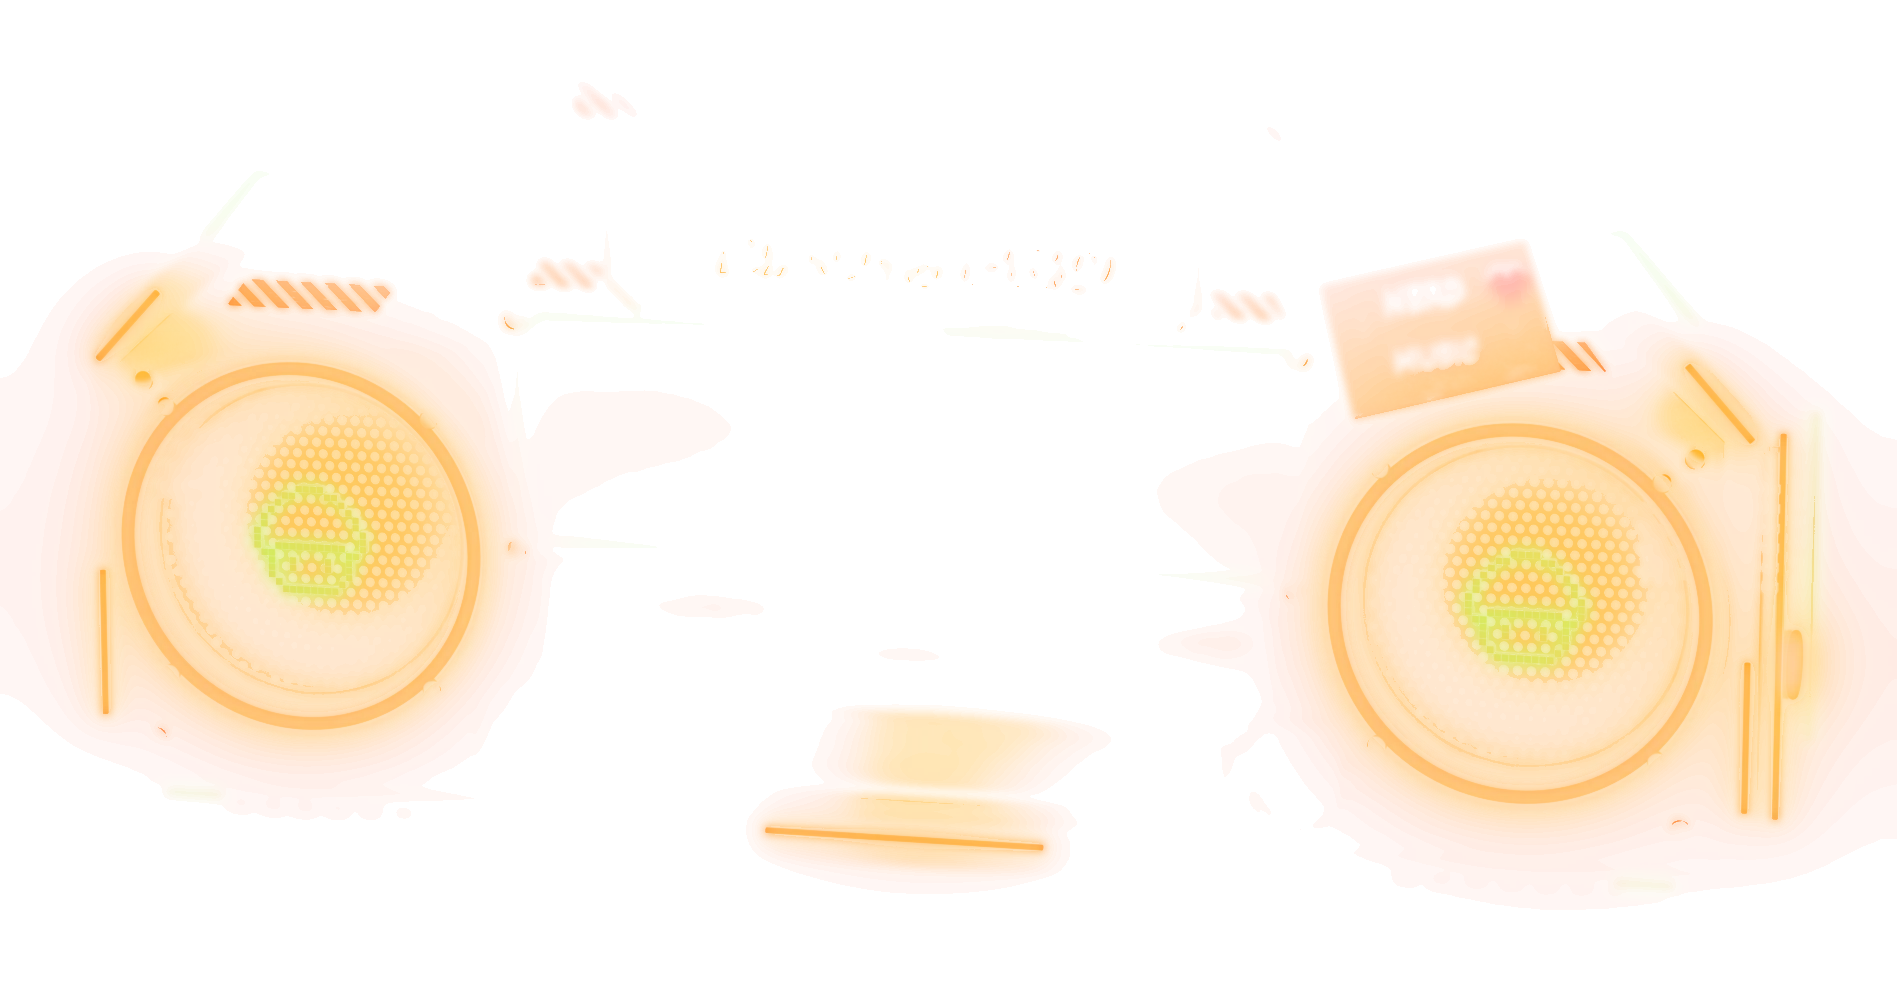
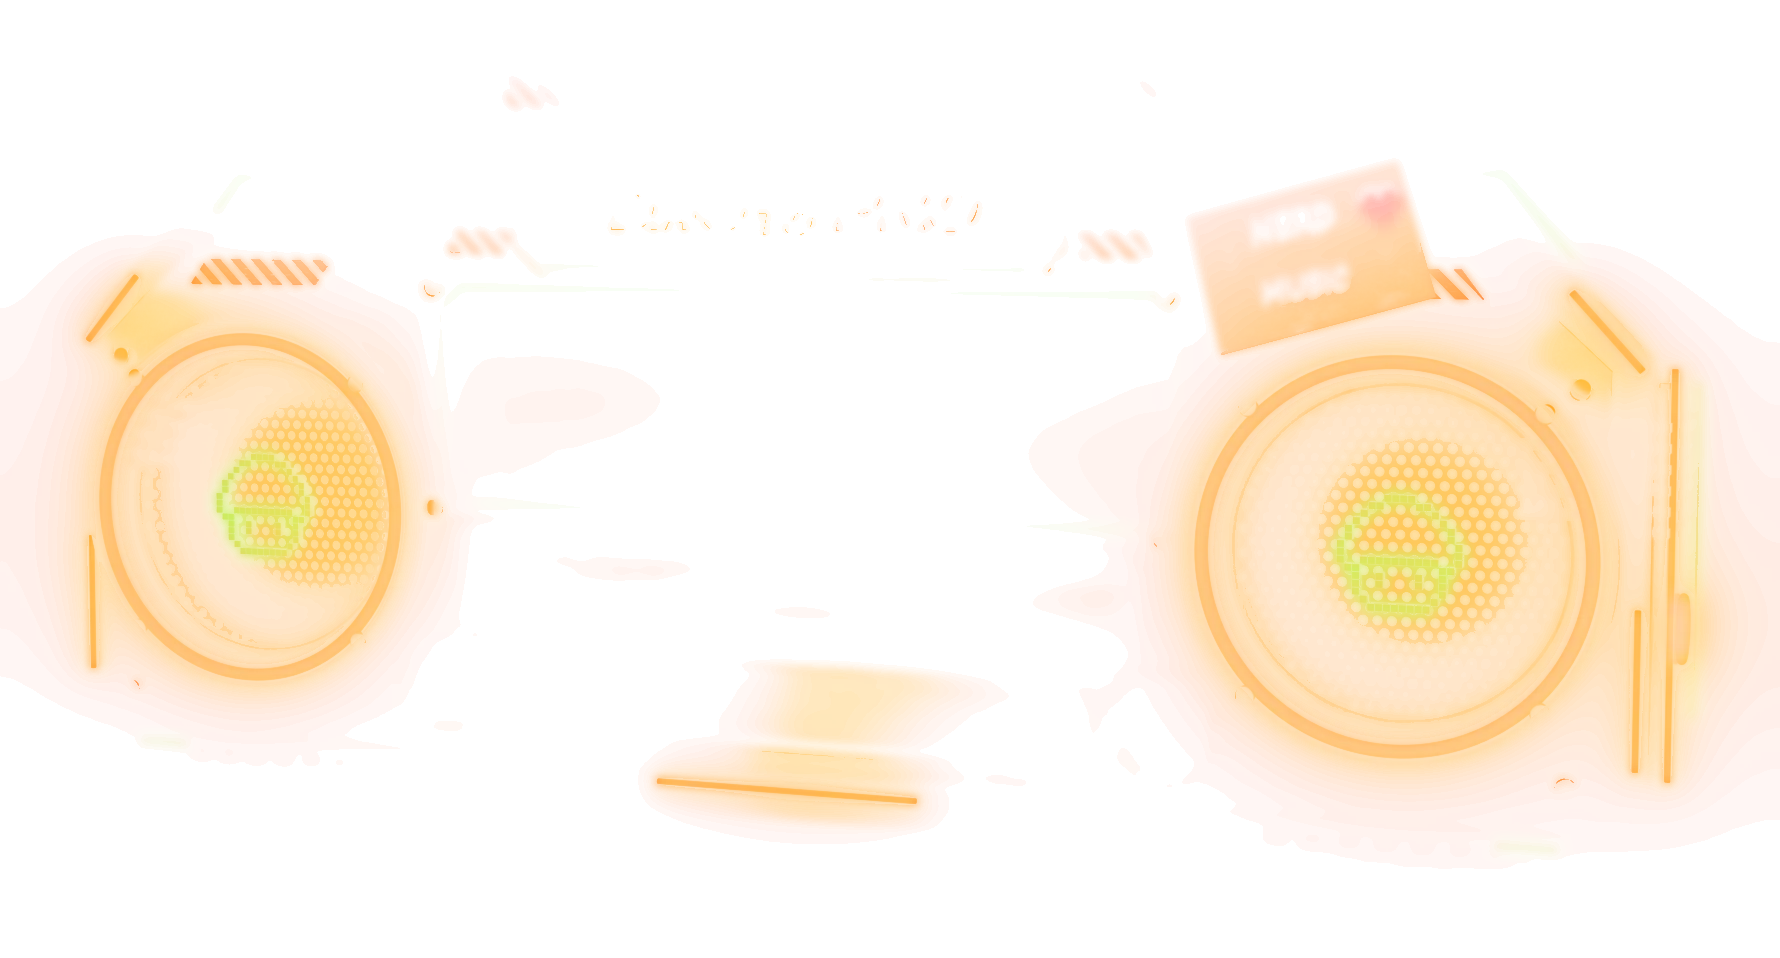
NERD RADIO: um die Hochachse gedreht, rechte Ecke zeigt zur Kamera

diff --git a/dau-to-pro/nerd-radio/layout.css b/dau-to-pro/nerd-radio/layout.css
@@ -1,22 +1,22 @@
 /* Generiert von tools/nerd-radio/build_boombox.py – nicht von Hand ändern. */
-.nr-device{aspect-ratio:1898/987;--nr-face:"0.02873 0.04963 0.95363 0.12216 0.94381 0.93996 0.03752 0.82833"}
-.nr-speaker--l{left:7.046%;top:35.531%;width:18.752%;height:38.219%}
+.nr-device{aspect-ratio:1780/958;--nr-face:"0.03256 0.06337 0.95701 0.02838 0.94683 0.93833 0.03912 0.79935"}
+.nr-speaker--l{left:6.603%;top:34.739%;width:16.807%;height:36.551%}
 .nr-speaker--l .nr-speaker__cone{background-image:url(cone-0.webp)}
-.nr-speaker--r{left:70.433%;top:41.651%;width:20.088%;height:39.564%}
+.nr-speaker--r{left:67.730%;top:37.054%;width:22.345%;height:42.352%}
 .nr-speaker--r .nr-speaker__cone{background-image:url(cone-1.webp)}
-.nr-key[data-radio-prev]{left:27.892%;top:56.908%;width:8.617%;height:13.175%;background-image:url(key-prev-up.webp)}
+.nr-key[data-radio-prev]{left:24.804%;top:54.144%;width:8.386%;height:13.182%;background-image:url(key-prev-up.webp)}
 .nr-key[data-radio-prev]:active,.nr-key[data-radio-prev].is-down{background-image:url(key-prev-down.webp)}
-.nr-key[data-radio-stop]{left:35.098%;top:57.686%;width:8.654%;height:13.214%;background-image:url(key-stop-up.webp)}
+.nr-key[data-radio-stop]{left:31.612%;top:54.734%;width:8.581%;height:13.342%;background-image:url(key-stop-up.webp)}
 .nr-key[data-radio-stop]:active,.nr-key[data-radio-stop].is-down{background-image:url(key-stop-down.webp)}
-.nr-key[data-radio-play]{left:42.363%;top:58.469%;width:10.168%;height:13.418%;background-image:url(key-play-up.webp)}
+.nr-key[data-radio-play]{left:38.651%;top:55.344%;width:10.271%;height:13.667%;background-image:url(key-play-up.webp)}
 .nr-key[data-radio-play]:active,.nr-key[data-radio-play].is-down{background-image:url(key-play-down.webp)}
-.nr-key[data-radio-next]{left:51.150%;top:59.418%;width:8.772%;height:13.299%;background-image:url(key-next-up.webp)}
+.nr-key[data-radio-next]{left:47.411%;top:56.104%;width:9.075%;height:13.716%;background-image:url(key-next-up.webp)}
 .nr-key[data-radio-next]:active,.nr-key[data-radio-next].is-down{background-image:url(key-next-down.webp)}
-.nr-key[data-radio-shuffle]{left:58.531%;top:60.216%;width:8.844%;height:13.339%;background-image:url(key-shuffle-up.webp)}
+.nr-key[data-radio-shuffle]{left:54.987%;top:56.762%;width:9.335%;height:13.896%;background-image:url(key-shuffle-up.webp)}
 .nr-key[data-radio-shuffle]:active,.nr-key[data-radio-shuffle].is-down{background-image:url(key-shuffle-down.webp)}
-.nr-key[data-radio-mode]{left:23.839%;top:67.448%;width:6.972%;height:13.994%;background-image:url(key-mode-up.webp)}
+.nr-key[data-radio-mode]{left:21.043%;top:64.669%;width:6.758%;height:14.048%;background-image:url(key-mode-up.webp)}
 .nr-key[data-radio-mode]:active,.nr-key[data-radio-mode].is-down{background-image:url(key-mode-down.webp)}
-.nr-key[data-radio-list]{left:64.425%;top:72.084%;width:7.198%;height:14.225%;background-image:url(key-list-up.webp)}
+.nr-key[data-radio-list]{left:61.191%;top:69.232%;width:7.703%;height:15.085%;background-image:url(key-list-up.webp)}
 .nr-key[data-radio-list]:active,.nr-key[data-radio-list].is-down{background-image:url(key-list-down.webp)}
 .nr-device[data-state=playing] .nr-key[data-radio-play]{background-image:url(key-play-on-up.webp)}
 .nr-device[data-state=playing] .nr-key[data-radio-play]:active,.nr-device[data-state=playing] .nr-key[data-radio-play].is-down{background-image:url(key-play-on-down.webp)}

diff --git a/tools/nerd-radio/build_boombox.py b/tools/nerd-radio/build_boombox.py
@@ -466,11 +466,14 @@ floor = None
 bpy.ops.mesh.primitive_plane_add(size=40, location=(0, 2, Z(447)))
 floor = bpy.context.object; floor.name = 'floor_unused'; floor.hide_render = True  # Bodenschatten macht die Website
 
-cam_d = bpy.data.cameras.new('cam'); cam_d.lens = 135; cam_d.sensor_width = 36
+# Leicht schräg: das Gerät ist um die Hochachse gedreht, die rechte Ecke zeigt zur Kamera.
+# Normalbrennweite aus der Nähe, damit die Perspektive sichtbar ist (rechts größer als links);
+# kaum Aufsicht, damit Ober- und Unterkante nicht verkippt wirken.
+cam_d = bpy.data.cameras.new('cam'); cam_d.lens = 50; cam_d.sensor_width = 36
 cam = bpy.data.objects.new('cam', cam_d); scene.collection.objects.link(cam); scene.camera = cam
-tilt = math.radians(12)
-dist = 46
-yaw = math.radians(14)   # leicht schräg: rechte Gehäuseseite sichtbar
+tilt = math.radians(4)
+dist = 17.5
+yaw = math.radians(22)
 cam.location = (dist * math.cos(tilt) * math.sin(yaw), -dist * math.cos(tilt) * math.cos(yaw), dist * math.sin(tilt) + 0.15)
 cam.rotation_euler = (math.pi / 2 - tilt, 0, yaw)
 W, H = (1100, 560) if PREVIEW else (2200, 1120)
